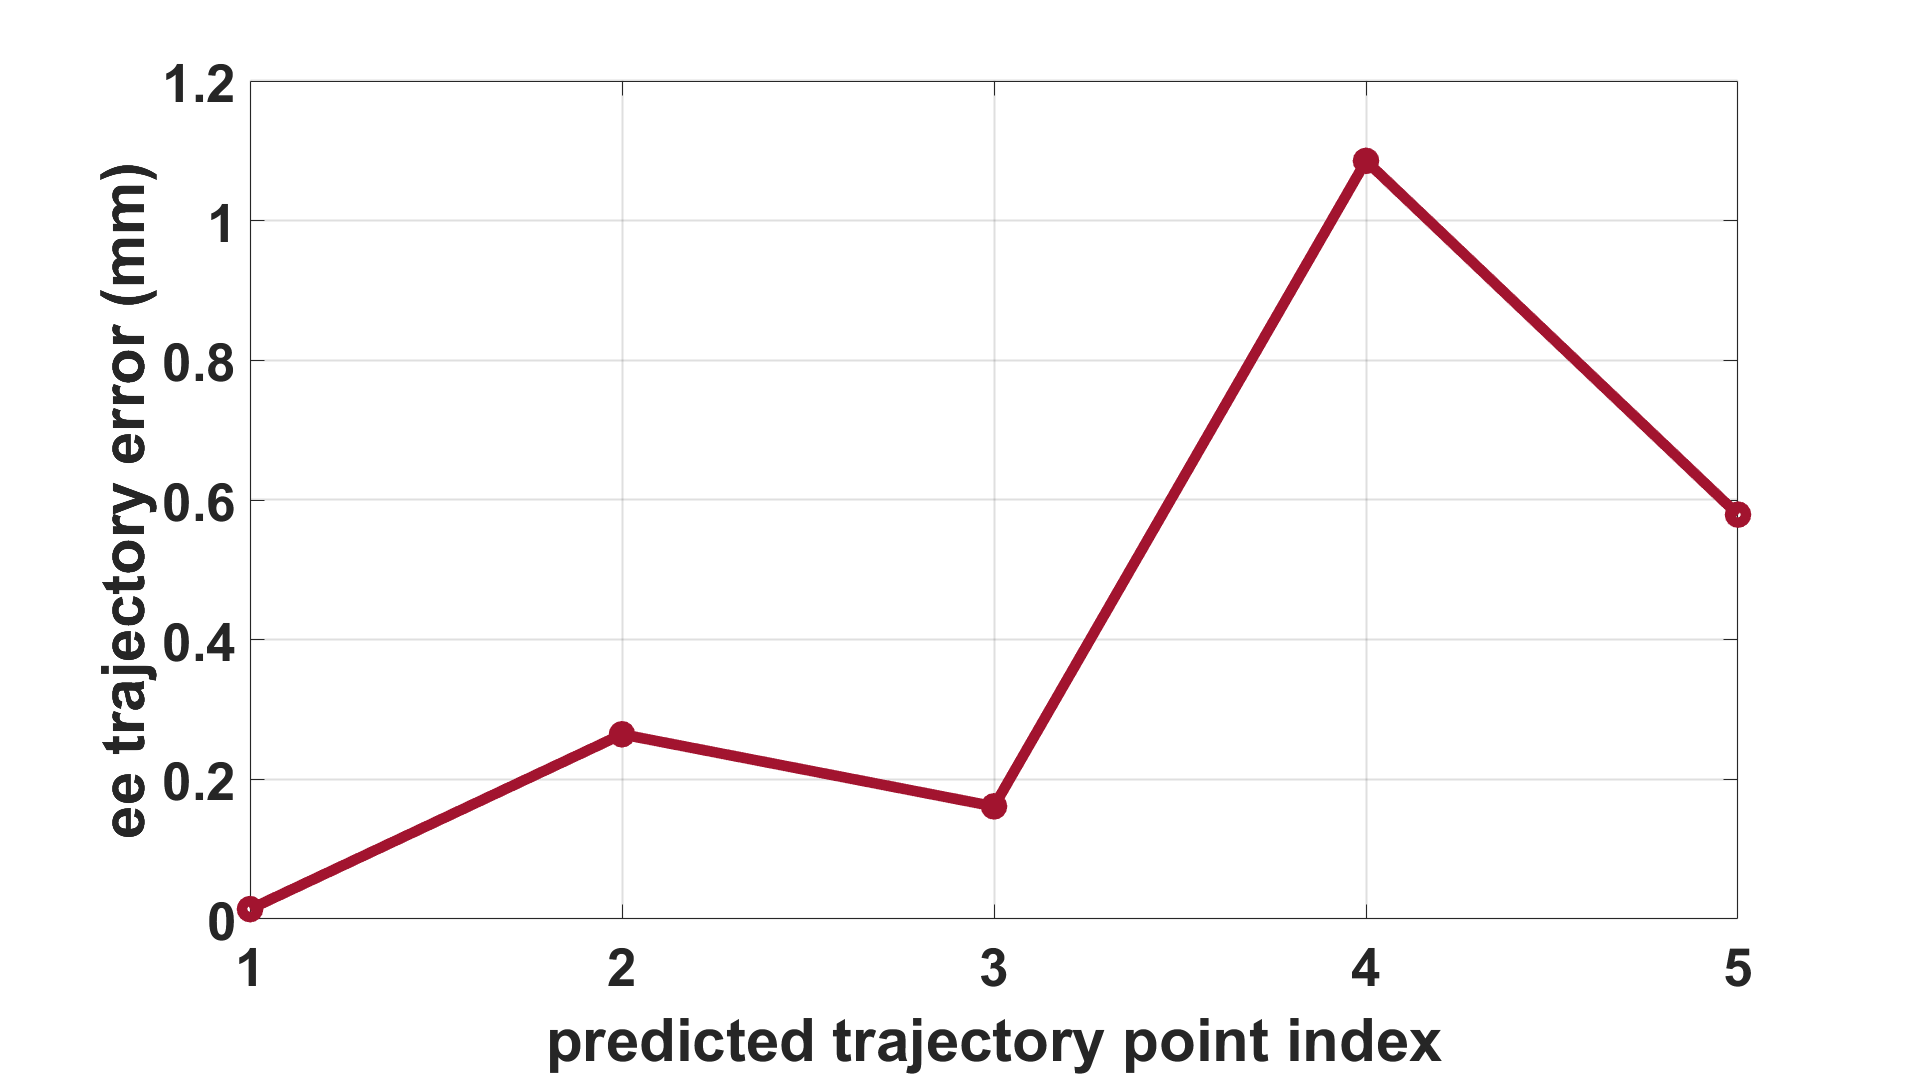
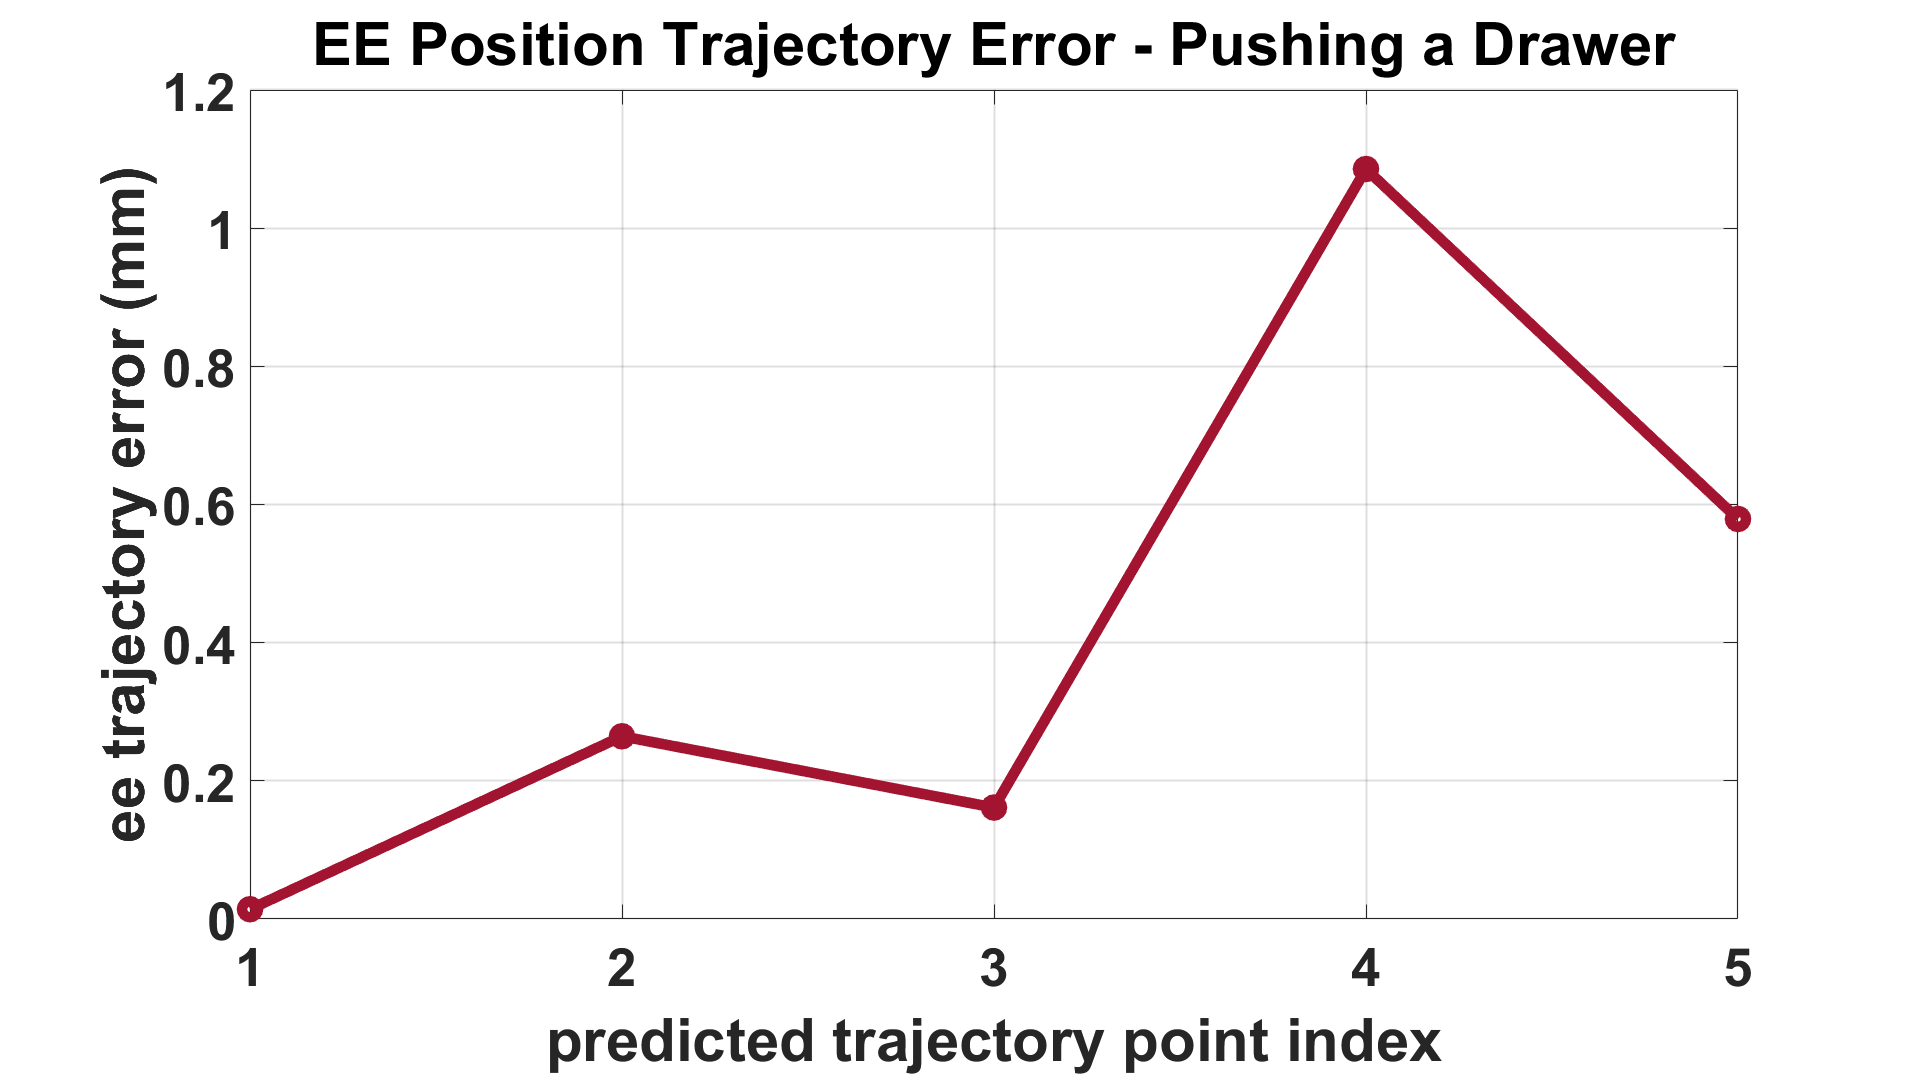
add subtitles

diff --git a/real_robot_data_plots_and_demos/pushing_a_drawer/ee_position_and_joint_states_plotter.m b/real_robot_data_plots_and_demos/pushing_a_drawer/ee_position_and_joint_states_plotter.m
@@ -190,7 +190,7 @@ grid_lw = 1.5;
 xlabel(ax_joint_states, 'time (s)');
 ylabel(ax_joint_states, 'joint states (rad)');
 legend(ax_joint_states,'Interpreter', 'none', 'Color', 'none'); % Don't interpret underscores as cues for subscripts, and don't fill the legend box
-% title(ax_joint_states, ['Actual Joint States vs. Time - ',title_postfix]);
+title(ax_joint_states, ['Actual Joint States vs. Time - ',title_postfix]);
 
 % Set fontsizes for various plot parameters
 ax_joint_states.XAxis.FontSize = tick_fontsize; 
@@ -208,7 +208,7 @@ ax_joint_states.GridLineWidth = grid_lw;
 % Set legend position
 legend_position = ax_joint_states.Legend.Position;
 shift_amount_x = -0.267; 
-shift_amount_y = 0.245; 
+shift_amount_y = 0.23; 
 ax_joint_states.Legend.Position = [legend_position(1) + shift_amount_x, legend_position(2)+ shift_amount_y, legend_position(3), legend_position(4)];
 
 % Plot Error between predicted and actual EE cartesian trajectory
@@ -313,7 +313,7 @@ grid on
 
 xlabel(ax_ee_traj_final, 'x(mm)');
 ylabel(ax_ee_traj_final, 'y(mm)');
-% title(ax_ee_traj_final, ['EE Trajectory and Error - ',title_postfix]);
+title(ax_ee_traj_final, ['EE Position Trajectory - ',title_postfix]);
 
 hLegend = legend(ax_ee_traj_final, 'Interpreter', 'none', 'Color', 'none');
 hLegend.Box = 'on'; % Turn on the legend box (if not already on)
@@ -345,7 +345,7 @@ ax_ee_traj_final.Legend.FontSize = legend_fontsize;
 
 
 fig5 = figure(5);
-title_fontsize = 35;
+title_fontsize = 45;
 label_fontsize = 45;
 legend_fontsize = 25;
 tick_fontsize = 40;
@@ -362,7 +362,7 @@ plot(ax_ee_traj_error_final, ...
      'LineWidth', 8, 'MarkerSize', 12, 'DisplayName', 'trajectory error');
 xlabel(ax_ee_traj_error_final, 'predicted trajectory point index');
 ylabel(ax_ee_traj_error_final, 'ee trajectory error (mm)');
-% title(ax_ee_traj_error3, ['EE Trajectory Error - ',title_postfix]);
+title(ax_ee_traj_error_final, ['EE Position Trajectory Error - ',title_postfix]);
 
 grid on
 
